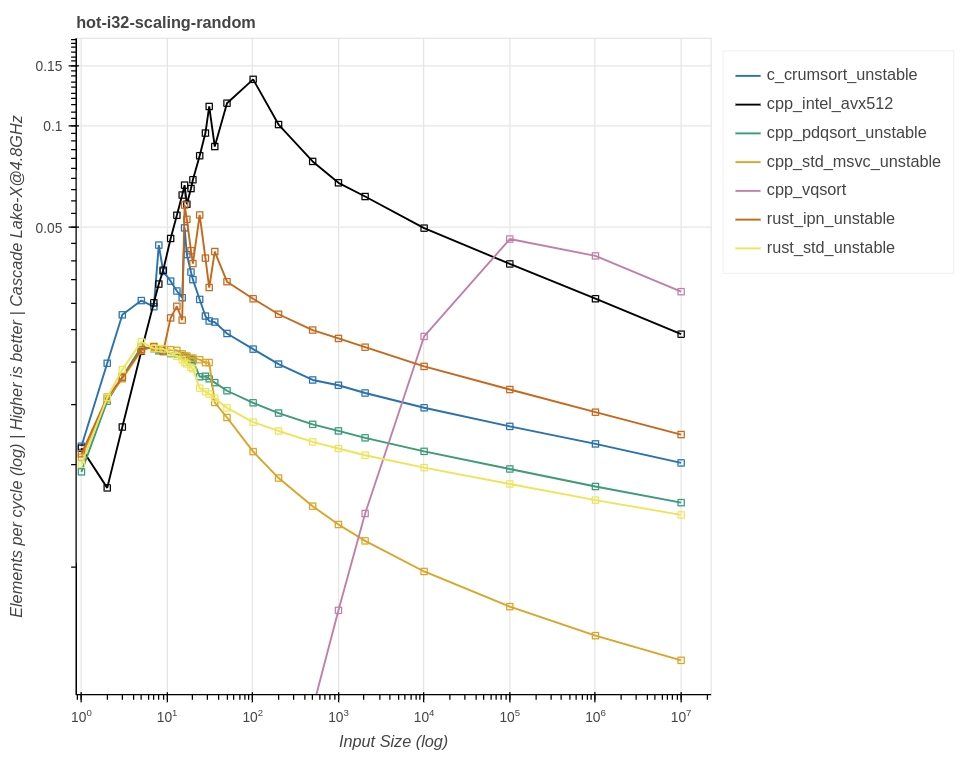
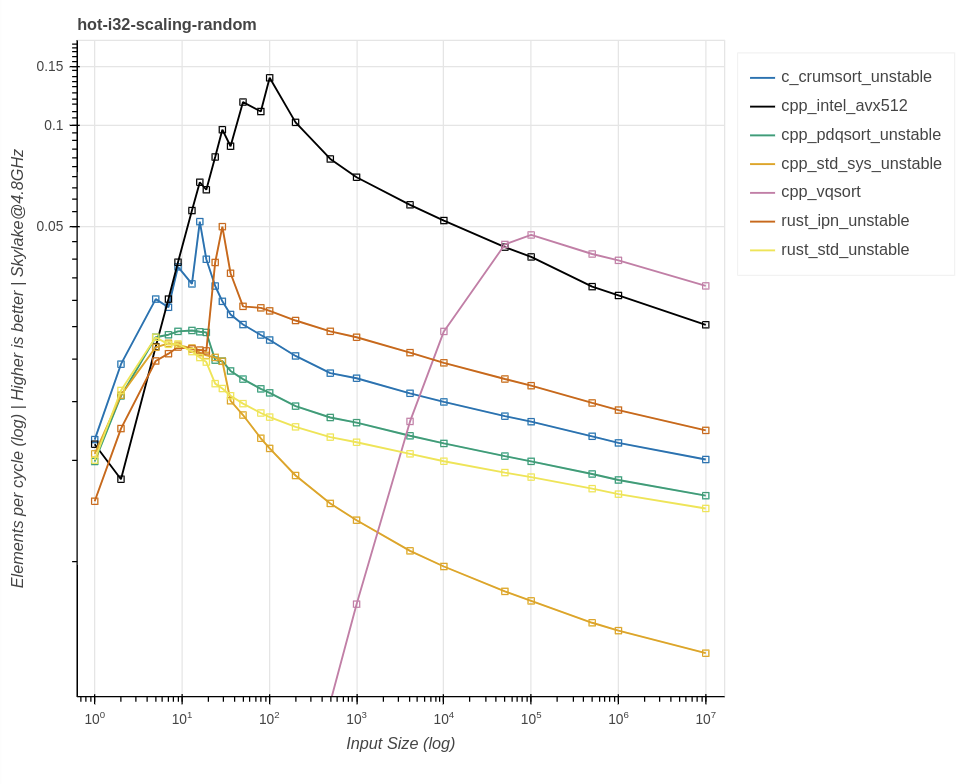
Update intel_avx512 writeup

diff --git a/writeup/intel_avx512/text.md b/writeup/intel_avx512/text.md
@@ -34,7 +34,6 @@ Intel Core i9-10980XE 18-Core Processor (Skylake micro-architecture)
 Modern sort implementations are adaptive, they will try to exploit existing patterns in the data to do less work. A breakdown of the benchmark patterns:
 
 - `ascending`, numbers `0..size`
-- `descending`, numbers `0..size` reversed
 - `random`, random numbers generated by rand `StdRng::gen` [[2](https://github.com/rust-random/rand)]
 - `random_d20`, uniform random numbers in the range `0..=20`
 - `random_p5`, 95% 0 and 5% random data, not uniform
@@ -67,7 +66,7 @@ A selection of high-performance in-place sort implementations.
 2. Still WIP and these are only preliminary results.
 3. Build with msvc.
 4. Compiled with `#define cmp(a, b) (*(a) > *(b))`. This is required to be competitive, the regular way of providing a comparison function is problematic because of C language limitations.
-5. Build with clang and `-march=native`. Compiled with static dispatch, this would not be portable. Any CPU without AVX-512 support would fail to run the binary. It's unknown what the overhead of dynamic dispatch would be. 
+5. Build with clang and `-march=native`. Compiled with static dispatch, this would not be portable. Any CPU without AVX-512 support would fail to run the binary. It's unknown what the overhead of dynamic dispatch would be.
 
 ### Results `u64`
 
@@ -79,7 +78,7 @@ A good benchmark to shine light into the ability of the sort to exploit instruct
 
 Using this data to write a headline like:
 
-> Rust std sort is 12x faster than C++ std sort
+> Rust std sort is 10x faster than C++ std sort
 
 Is not an honest representation. And it's generally very difficult to compress so much information into a single number, while still remaining representative. Looking at this one input size, on one specific micro-architecture, using this specific set of compilers, and testing these synthetic patterns, yields:
 
@@ -87,8 +86,8 @@ Is not an honest representation. And it's generally very difficult to compress s
 - The two manually vectorized sort implementations cpp_intel_avx512 and cpp_vqsort, are not good at exploiting existing patterns in the input.
 - cpp_intel_avx512 struggles if there is one very common value in the input (random_p5).
 - cpp_std_msvc_unstable is generally the slowest of the comparison based sort implementations.
-- rust_std_unstable which is based on cpp_pdqsort_unstable performs similar, with the exception of fully ascending or descending inputs.
-- ascending and descending show the largest variance with the fastest sort being ~33x and ~23x faster respectively than the slowest.
+- rust_std_unstable which is based on cpp_pdqsort_unstable performs similar, with the exception of fully ascending inputs.
+- ascending shows the largest variance with the fastest sort being ~33x faster han the slowest.
 - More natural random distributions like random_z1 close the gap between manually vectorized code and pdqsort derived designs, rust_std_unstable, rust_ipn_unstable and c_crumsort_unstable.
 
 Whether these patterns are representative will depend on your workload. These are fundamentally synthetic benchmarks exploring sort performance in isolation. Especially small sizes are likely not representative of real world performance, where CPU branch, instruction and data caches may be cold. **These numbers should be interpreted as best case performance under laboratory conditions.**
@@ -99,19 +98,42 @@ Measuring random pattern performance across different sizes:
 <img src="assets/hot-u64-scaling-random.png" width=600 />
 
 Zoomed in:
+
 <img src="assets/hot-u64-scaling-random_zoomed.png" width=600 />
 
 Observations:
 
-- cpp_vqsort is exceedingly slow for small inputs.
+- cpp_vqsort is exceedingly slow for small inputs. This seems to be caused in part by always allocating regardless of input size.
 - cpp_intel_avx512 is fast across all sizes, when benchmarked in a hot loop.
-- cpp_intel_avx512, rust_ipn_unstable and c_crumsort_unstable, differentiate themselves from implementations using insertion sort for small inputs, rust_std_unstable, cpp_pdqsort_unstable and cpp_std_msvc_unstable.
+- cpp_intel_avx512 and c_crumsort_unstable, differentiate themselves from the other implementations using insertion sort for such inputs.
 - cpp_std_msvc_unstable shows sub-log scaling.
 - Starting at ~50k cpp_vqsort is the fastest.
 - rust_ipn_unstable catches up to cpp_intel_avx512 at ~1m, despite only using SSE2 instructions and using no hardware specific code.
 
+Hot benchmarks are deceiving for small sizes. Instrumenting the Rust standard library and building a custom version of rustc that logs the input size and time spent in `slice::sort`, which is the stable sort of the Rust standard library, yielded these insights clean compiling 60 crates:
+
+Out of the ~500k calls to `slice::sort` 99+% were `len <= 20` and together they account for ~50% of the time.
+
+Running a sort implementation several million times in a loop, with new unique inputs of the same size and pattern is not representative of real world performance effects. To simulate a program that calls sort occasionally with varying sizes, and a cold CPU prediction state, the benchmarks are also run in a mode where between each sort call, the CPU prediction state is trashed [[4](https://github.com/Voultapher/sort-research-rs/blob/b7bcd199e861d6f8b265164242f3c34d5c36c75f/benches/trash_prediction.rs#L7)]. Looking at that important `len <= 20` range:
+
+<img src="assets/cold-u64-scaling-random.png" width=600 />
+
+Zoomed in:
+
+<img src="assets/cold-u64-scaling-random_zoomed.png" width=600 />
+
+Observations:
+
+- rust_ipn_unstable leads the chart, in contrast to the hot results.
+- cpp_intel_avx512 trails the chart, in contrast to the hot results.
+- Peak throughput drops by 5x compared to hot results.
+
+Another aspect that should be mentioned, is frequency scaling. With the exception of the latest generations of Intel and AMD  micro-architectures, Golden Cove and Zen4, previous Intel AVX-512 implementations scaled down the CPU boost frequency when certain AVX-512 instructions were executed [[5](https://travisdowns.github.io/blog/2020/08/19/icl-avx512-freq.html)]. This may affect real world usage and performance. Another aspect potentially affected by cold code is the micro-op cache, which may introduce additional latency before the longer and more complex AVX-512 instructions can be executed.
+
+The shown cold and hot benchmarks, model the two extremes of the likely range of possible results.
+
 Measuring a more natural zipfian distribution random_z1 across different sizes:
-<img src="assets/hot-u64-scaling-random_z1_zoomed.png" width=600 />
+<img src="assets/cold-u64-scaling-random_z1_zoomed.png" width=600 />
 
 Observations:
 
@@ -129,12 +151,18 @@ The main difference between `i32` and `u64` is that `i32` is only 4 bytes compar
 
 Observations:
 - Compared to `u64` cpp_intel_avx512 manages to cut it's runtime in half.
-- cpp_vqsort only sees a ~1.37x speedup compared to `u64` at this input size.
+- cpp_vqsort only sees a ~1.43x speedup compared to `u64` at this input size.
 - All comparison based sort implementations only see a small change compared to `u64`.
 
 #### hot-i32-scaling
 
+Hot:
+
 <img src="assets/hot-i32-scaling-random_zoomed.png" width=600 />
+
+Cold:
+
+<img src="assets/cold-i32-scaling-random_zoomed.png" width=600 />
 
 Observations:
 
@@ -142,13 +170,42 @@ Observations:
 - It takes a bit longer, but eventually cpp_vqsort overtakes cpp_intel_avx512.
 - The manually vectorized implementations are a lot better at leveraging the increased potential throughput, than the generic comparison based implementations.
 
+### Direct comparison
+
+A comprehensive look at performance for a single type can be achieved by comparing two implementations and plotting their symmetric relative speedup and slowdown on the Y-axis and the test size on the X-axis. Each line representing a pattern. Eg. a-vs-b, 1% means a is 1.01x faster than b, 100% means a is 2x faster than b, and 200% means a is 3x faster than b, and 300% means 4x. The same works in reverse where -1% means b is 1.01x faster than a, -100% means b 2x a, and -200% means b 3x a. The graphs are fixed to the Y-range -200,200 to allow comparison between graphs.
+
+Comparing the two manually vectorized implementations:
+
+<img src="assets/cpp_intel_avx512-vs-cpp_vqsort-cold-u64.png" width=600 />
+
+Observations:
+
+- Below 10k cpp_intel_avx512 is faster in every pattern than cpp_vqsort.
+- Above 100k cpp_vqsort is faster than cpp_intel_avx512 in nearly every pattern.
+- For large random inputs cpp_vqsort is ~1.4x faster than cpp_intel_avx512.
+- random_5p triggers bad partitions in cpp_intel_avx512 which does not safe-guard against it, making cpp_vqsort is ~17x faster than cpp_intel_avx512 for `len == 10m` for the random_p5 pattern. This seems to indicate that cpp_intel_avx512 has a worse than `O(N * log(N))` worst-case runtime, likely caused by poor pivot selection and no mitigation strategies.
+
+<img src="assets/cpp_intel_avx512-vs-cpp_vqsort-cold-i32.png" width=600 />
+
+Observations:
+
+- `i32` performs very similar to `u64` but the lead cpp_vqsort has for larger inputs shrinks. Random showing only ~1.3x faster performance compared to cpp_vqsort.
+
+Compared to the fastest generic comparison based implementation rust_ipn_unstable:
+
+<img src="assets/cpp_intel_avx512-vs-rust_ipn_unstable-cold-u64.png" width=600 />
+
+Observations:
+
+- Between 36 and 1k elements, cpp_intel_avx512 is faster in nearly every pattern. Between 1k and 100k cpp_intel_avx512 is faster for fully random and saw like patterns. Whereas rust_ipn_unstable is faster for low- cardinality and zipfian patterns, where it can leverage the pdqsort derived ability to filter out common values.
+
 ## Author's conclusion and opinion
 
 cpp_intel_avx512 is a very fast sort implementation, especially for random inputs, and it shows nice scaling across different input sizes. This analysis did not look into the overhead of runtime dispatch, which would be required to use it in code that is not uniquely compiled for a specific platform. Looking at some scenarios:
 
 #### Specialized sort in a library
 
-cpp_intel_avx512 can be a great choice, if the input is assumed mostly random, and not of low-cardinality. When inputs of varying sizes have to be sorted and the appropriate hardware supporting AVX-512 is available.
+cpp_intel_avx512 can be a great choice, if the input is assumed mostly random, not very small and not of low-cardinality. When inputs of varying sizes have to be sorted and the appropriate hardware supporting AVX-512 is available. At the same time it can be problematic to use it as the sole replacement for calls to sort because of cold performance and potential frequency scaling issues.
 
 #### Specialized HPC code
 
@@ -156,4 +213,10 @@ If you need the best possible throughput, and know you only have large inputs wi
 
 #### Language standard library
 
-A standard library implementation should be good in most scenarios, with bad performance in as few scenarios as possible. There are many glaring issues with cpp_intel_avx512 for such a use case. It would only support a small fraction of devices, would increase binary size for all x86 targets. It is not good at exploiting existing patterns in the input. It can't support custom comparisons, which would potentially mean that `v.sort()` and `v.sort_by(|a, b| a.cmp(b))` could have a surprising difference in performance. It can't support user defined types without additional code by the user, eg. `#[derive(Copy, Clone)]struct X(i32)` could have a surprising difference in performance to just `i32`.
+A standard library implementation should be good in most scenarios, with bad performance in as few scenarios as possible. There are many glaring issues with cpp_intel_avx512 for such a use case. It would only support a small fraction of devices, would increase binary size for all x86 targets. It is not good at exploiting existing patterns in the input. It can't support user-defined comparisons, which would potentially mean that `v.sort()` and `v.sort_by(|a, b| a.cmp(b))` could have a surprising difference in performance. It can't support user-defined types without additional code by the user, eg. `#[derive(Copy, Clone)]struct X(i32)` could have a surprising difference in performance to just `i32`. On top of that, there are issues with cold performance and frequency scaling.
+
+All the results are a snapshot of the current state of the respective implementations. Since making the measurements, there have been changes to c_crumsort_unstable and rust_ipn_unstable, and the people behind cpp_vqsort are looking into small input performance.
+
+## Thanks
+
+I want to thank Jan Wassenberg for his detailed feedback and help.
